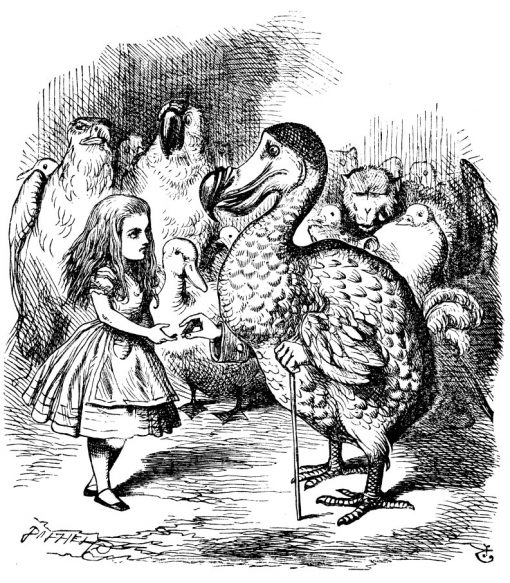
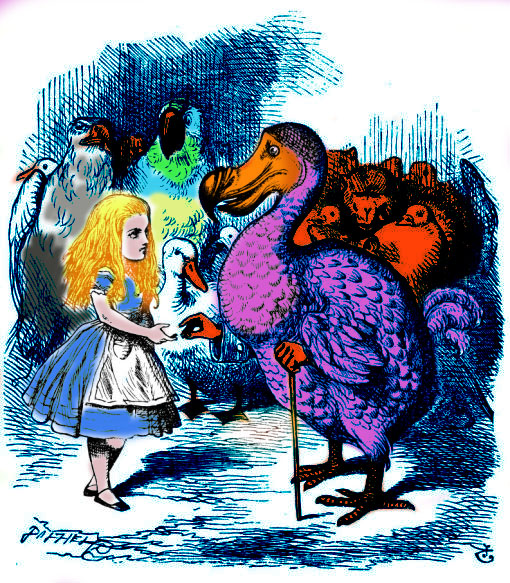
Coloring is added to the pictures

diff --git a/css/style.css b/css/style.css
@@ -31,7 +31,9 @@ nav ul {
   list-style: none;
   padding: 1em;
   display: flex;
+  align-items: center;
   justify-content: space-between;
+  flex-direction: row;
   margin-top: 0;
 }
 nav a:link, nav a:visited {
